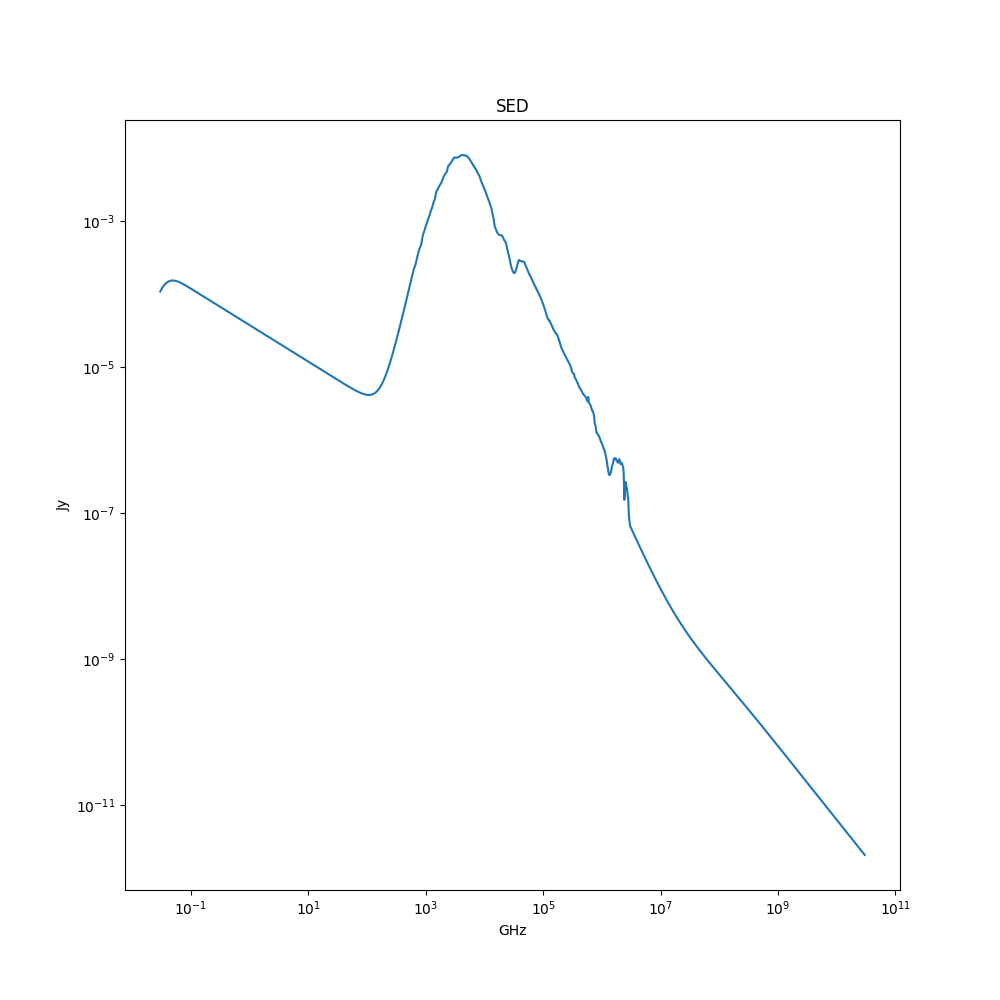
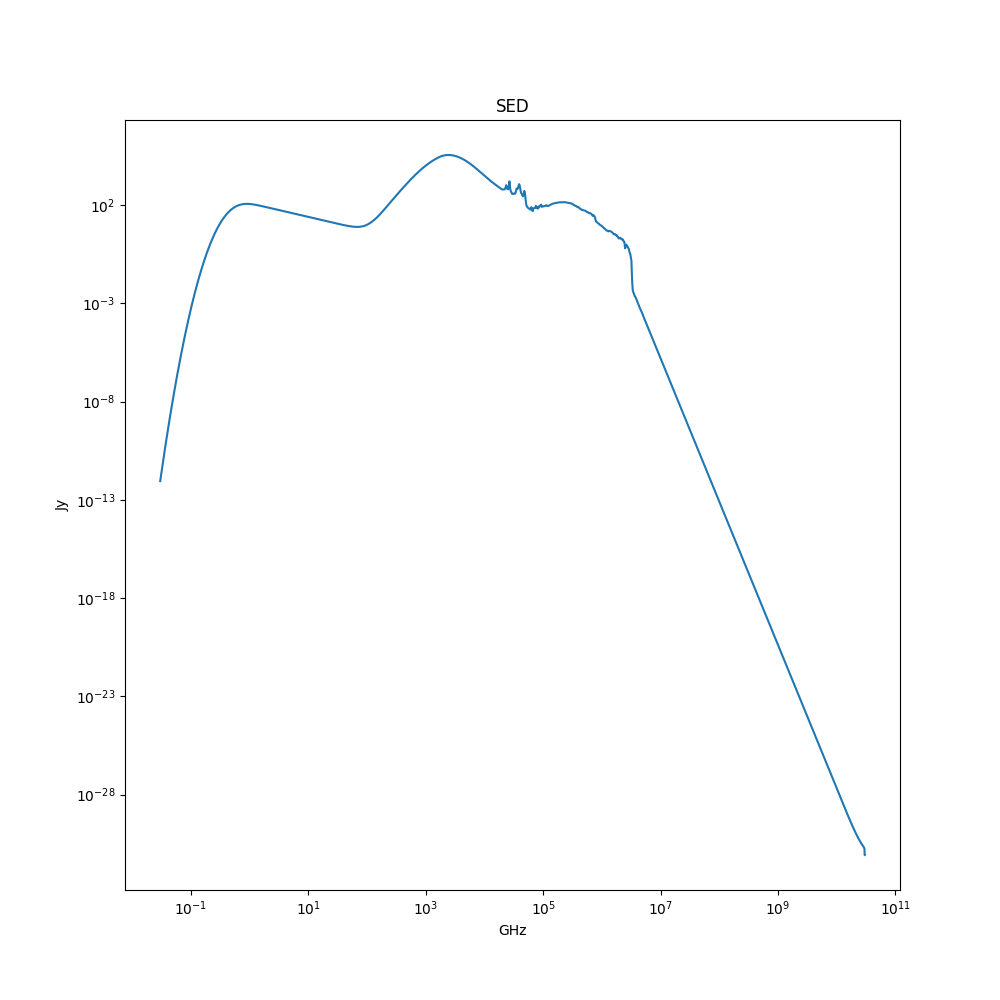
test: working on SED function

diff --git a/utility/astro.py b/utility/astro.py
@@ -834,16 +834,18 @@ def get_line_info(main_path, idxs=None):
     else:
         return rest_frequencies, line_names
 
-def sed_reading(type_, path, lum_infrared=None):
+def sed_reading(type_, path, lum_infrared=None, redshift=None):
     cosmo = FlatLambdaCDM(H0=70 * U.km / U.s / U.Mpc, Tcmb0=2.725 * U.K, Om0=0.3)
     if type_ == "extended" or type_ == 'diffuse':
         file_path = os.path.join(path, 'SED_low_z_warm_star_forming_galaxy.dat')
-        redshift = 10**(-4)
+        if redshift is None:
+            redshift = 10**(-4)
         if lum_infrared is None: 
             lum_infrared = 1e+10 # luminosity in solar luminosities
     elif type_ == "point" or type_ == "gaussian":
         file_path = os.path.join(path, 'SED_low_z_type2_AGN.dat')
-        redshift = 0.05
+        if redshift is None:
+            redshift = 0.05
         if lum_infrared is None:
             lum_infrared = 1e+9 # luminosity in solar luminosities
     else:
@@ -865,16 +867,6 @@ def sed_reading(type_, path, lum_infrared=None):
     #flux_infrared_jy = flux_infrared  / (sed['GHz'].values * U.GHz).to(U.Hz).value  # Jy
     sed.drop(columns=['um', 'erg/s/Hz'], inplace=True)
     sed = sed.sort_values(by='GHz', ascending=True) 
-    plt.figure(figsize=(10,10))
-    plt.plot(sed['GHz'], sed['Jy'])
-    #plt.plot(sed['GHz'], flux_infrared_jy, 'ro')
-    plt.xlabel('GHz')
-    plt.ylabel('Jy')
-    plt.title('SED')
-    plt.xscale('log')
-    plt.yscale('log')
-    plt.savefig(path + '/SED.png')
-    plt.show()
     return sed, flux_infrared
 
 def cont_finder(sed,line_frequency):
